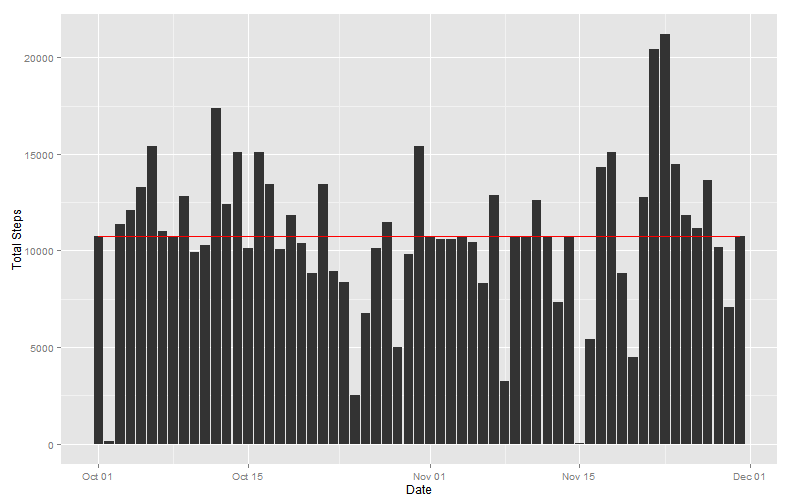
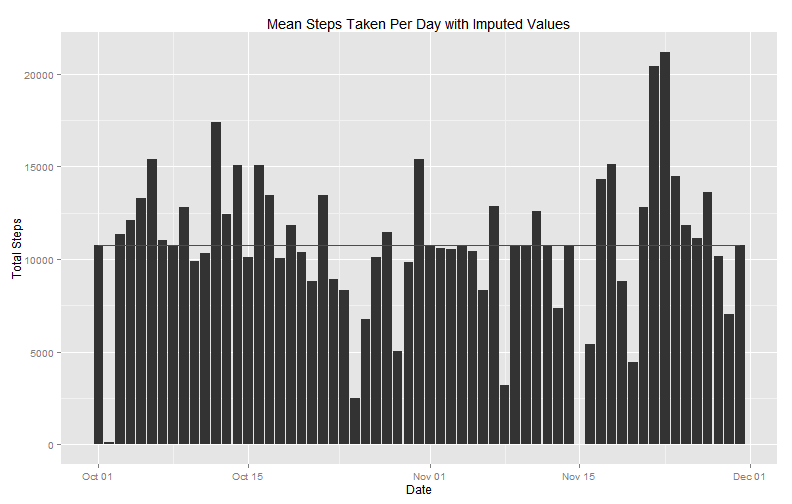
-Final Version 3.0

diff --git a/PA1_template.html b/PA1_template.html
@@ -376,11 +376,12 @@ p3 &lt;- ggplot(total_by_day_imp, aes(x = date, y = total_steps)) +
   geom_histogram(stat = &#39;identity&#39;) +
   ylab(&#39;Total Steps&#39;) +
   xlab(&#39;Date&#39;) +
-  geom_line(stat = &#39;hline&#39;, yintercept = &#39;mean&#39;, color = &#39;red&#39;)
+  geom_line(stat = &#39;hline&#39;, yintercept = &#39;mean&#39;, color = &#39;red&#39;)+
+  ggtitle(&quot;Mean Steps Taken Per Day with Imputed Values&quot;)
 p3
 </code></pre>
 
[2 lines of base64/hex data omitted]
 
 <pre><code class="r">day_mean_imp &lt;- round(mean(total_by_day_imp$total_steps), digits = 2)
 day_median_imp &lt;- median(total_by_day_imp$total_steps)
@@ -429,14 +430,15 @@ int_max_wday &lt;- avg_by_interval_wday %&gt;%
   group_by(weekend) %&gt;%
   filter(avg_steps == max(avg_steps))
 p4 + geom_vline(aes(xintercept = interval), int_max_wday, color = &#39;red&#39;,
-                linetype = &#39;dotted&#39;) + geom_smooth()
+                linetype = &#39;dotted&#39;) + geom_smooth()+
+  ggtitle(&quot;Activity Patterns by Weekday and Weekend&quot;)
 </code></pre>
 
 <pre><code>## geom_smooth: method=&quot;auto&quot; and size of largest group is &lt;1000, so using loess. Use &#39;method = x&#39; to change the smoothing method.
 ## geom_smooth: method=&quot;auto&quot; and size of largest group is &lt;1000, so using loess. Use &#39;method = x&#39; to change the smoothing method.
 </code></pre>
 
[2 lines of base64/hex data omitted]
 As you can see, the shape of our data is significantly different when broken down by 
 weekday/weekend.  This may indicate different activity patterns during the workweek
 versus the weekend.  Just glancing, we can see the peak for weekdays is earlier,

diff --git a/PA1_template.md b/PA1_template.md
@@ -196,7 +196,8 @@ p3 <- ggplot(total_by_day_imp, aes(x = date, y = total_steps)) +
   geom_histogram(stat = 'identity') +
   ylab('Total Steps') +
   xlab('Date') +
-  geom_line(stat = 'hline', yintercept = 'mean', color = 'red')
+  geom_line(stat = 'hline', yintercept = 'mean', color = 'red')+
+  ggtitle("Mean Steps Taken Per Day with Imputed Values")
 p3
 ```
 
@@ -255,7 +256,8 @@ int_max_wday <- avg_by_interval_wday %>%
   group_by(weekend) %>%
   filter(avg_steps == max(avg_steps))
 p4 + geom_vline(aes(xintercept = interval), int_max_wday, color = 'red',
-                linetype = 'dotted') + geom_smooth()
+                linetype = 'dotted') + geom_smooth()+
+  ggtitle("Activity Patterns by Weekday and Weekend")
 ```
 
 ```
